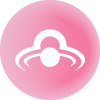
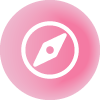
添加首页导航1.3.4跳转链接

Changed region(s): [[0.15, 0.21, 0.87, 0.81]]

diff --git a/HJC/View/HomePageButton/MainButtonCell.m b/HJC/View/HomePageButton/MainButtonCell.m
@@ -44,7 +44,7 @@
     if(!_preferentialBtn){
         UIButton *preferentialBtn = [UIButton buttonWithType:UIButtonTypeCustom];
         preferentialBtn.frame = CGRectMake(0, HeightXiShu(15), kScreenWidth/5, HeightXiShu(50));
-        [preferentialBtn setImage:[GetImagePath getImagePath:@"home_middle"] forState:UIControlStateNormal];
+        [preferentialBtn setImage:[GetImagePath getImagePath:@"home_sales"] forState:UIControlStateNormal];
         preferentialBtn.tag = 0;
         [preferentialBtn addTarget:self action:@selector(buttonAction:) forControlEvents:UIControlEventTouchUpInside];
         [self.bgView addSubview:preferentialBtn];
@@ -95,7 +95,7 @@
     if(!_integralBtn){
         UIButton *integralBtn = [UIButton buttonWithType:UIButtonTypeCustom];
         integralBtn.frame = CGRectMake(self.worldBtn.maxX, HeightXiShu(15), kScreenWidth/5, HeightXiShu(50));
-        [integralBtn setImage:[GetImagePath getImagePath:@"home_care"] forState:UIControlStateNormal];
+        [integralBtn setImage:[GetImagePath getImagePath:@"home_integral"] forState:UIControlStateNormal];
         integralBtn.tag = 2;
         [integralBtn addTarget:self action:@selector(buttonAction:) forControlEvents:UIControlEventTouchUpInside];
         [self.bgView addSubview:integralBtn];
@@ -120,7 +120,7 @@
     if(!_pharmacyBtn){
         UIButton *pharmacyBtn = [UIButton buttonWithType:UIButtonTypeCustom];
         pharmacyBtn.frame = CGRectMake(self.integralBtn.maxX, HeightXiShu(15), kScreenWidth/5, HeightXiShu(50));
-        [pharmacyBtn setImage:[GetImagePath getImagePath:@"home_integral"] forState:UIControlStateNormal];
+        [pharmacyBtn setImage:[GetImagePath getImagePath:@"home_middle"] forState:UIControlStateNormal];
         pharmacyBtn.tag = 3;
         [pharmacyBtn addTarget:self action:@selector(buttonAction:) forControlEvents:UIControlEventTouchUpInside];
         [self.bgView addSubview:pharmacyBtn];
@@ -145,7 +145,7 @@
     if(!_informationBtn){
         UIButton *informationBtn = [UIButton buttonWithType:UIButtonTypeCustom];
         informationBtn.frame = CGRectMake(self.pharmacyBtn.maxX, HeightXiShu(15), kScreenWidth/5, HeightXiShu(50));
-        [informationBtn setImage:[GetImagePath getImagePath:@"home_sales"] forState:UIControlStateNormal];
+        [informationBtn setImage:[GetImagePath getImagePath:@"home_care"] forState:UIControlStateNormal];
         informationBtn.tag = 4;
         [informationBtn addTarget:self action:@selector(buttonAction:) forControlEvents:UIControlEventTouchUpInside];
         [self.bgView addSubview:informationBtn];

diff --git a/HJC/Controller/ProcurementController/ProcurementNoTabViewController.m b/HJC/Controller/ProcurementController/ProcurementNoTabViewController.m
@@ -20,7 +20,7 @@
 @property (nonatomic, retain)NSMutableArray *dataArray;
 @property (nonatomic, assign)NSInteger pageIndex;
 @property (nonatomic, retain)UIView *noDateView;
-
+@property (nonatomic, strong)NSString *getUrl;
 @end
 
 @implementation ProcurementNoTabViewController
@@ -85,13 +85,20 @@
         navView.backgroundColor = [UIColor whiteColor];
         switch (self.classType) {
             case 1:
-                navView.titleLabel.text = @"化学药";
+                navView.titleLabel.text = @"诊特惠";
+                self.getUrl = GetNavTZh;
                 break;
             case 2:
-                navView.titleLabel.text = @"中成药";
+                navView.titleLabel.text = @"药世界";
+                self.getUrl = @"";
                 break;
             case 3:
-                navView.titleLabel.text = @"抗生素剂";
+                navView.titleLabel.text = @"换积分";
+                self.getUrl = GetNavJifen;
+                break;
+            case 4:
+                navView.titleLabel.text = @"云药房";
+                self.getUrl = GetNavYunYaoku;
                 break;
             default:
                 break;
@@ -171,11 +178,10 @@
     if (_pageIndex == 1) {
         pargrams = [NSMutableDictionary dictionary];
     }
-    [pargrams setObject:[NSString stringWithFormat:@",10,%ld",self.pageIndex] forKey:@"WebPara"];
-    [pargrams setObject:[NSString stringWithFormat:@"%ld,%@,%@",(long)self.classType,@"0",@""] forKey:@"Parastr"];// 分类DataID,供应商id,药品名称 [药品名称，不要传促销，促销会单独跳转。而不是放到参数里面请求]
     [pargrams setObject:[AnimaDefaultUtil getUserID] forKey:@"UserID"];//暂时设置为0因为只有0才有结果
-    NSLog(@"这是采购页面pargrams :%@", pargrams);
-    [BaseApi getMenthodWithUrl:GetGoodsListURL block:^(NSDictionary *dict, NSError *error) {
+    [pargrams setObject:[NSString stringWithFormat:@",10,%ld",self.pageIndex] forKey:@"WebPara"];
+    [pargrams setObject:[NSString stringWithFormat:@"0,%@,%@,",@"0",@""] forKey:@"Parastr"];// 分类DataID,供应商id,药品名称,产地 [因为URL不同，所以此页面不需要传分类ID，药品名称，产地]
+    [BaseApi getMenthodWithUrl:self.getUrl block:^(NSDictionary *dict, NSError *error) {
         [_tableView.mj_footer endRefreshing];
         if(!error){
             NSLog(@"请求成功了~~~~~~~~");

diff --git a/HJC/Controller/HomePage/MainViewController.m b/HJC/Controller/HomePage/MainViewController.m
@@ -85,6 +85,7 @@
     self.textField.delegate = self;
     self.textField.font = HEITI(HeightXiShu(13));
     self.textField.placeholder = @"泮立苏";
+    self.textField.returnKeyType = UIReturnKeySearch;
     [_searchView addSubview:self.textField];
     
 }
@@ -311,7 +312,10 @@
             break;
         case 2:
         {
-            NSLog(@"换积分");
+            NSLog(@"换积分"); //跳转到积分页面
+//            IntegralDetailViewController *idv = [[IntegralDetailViewController alloc] init];
+//            idv.hidesBottomBarWhenPushed = YES;
+//            [self.navigationController pushViewController:idv animated:YES];
             ProcurementNoTabViewController *pnt = [[ProcurementNoTabViewController alloc]init];
             pnt.classType = 3;
             pnt.hidesBottomBarWhenPushed = YES;
@@ -320,10 +324,11 @@
             break;
         case 3:
         {
-            NSLog(@"云药房"); //跳转到积分页面
-            IntegralDetailViewController *idv = [[IntegralDetailViewController alloc] init];
-            idv.hidesBottomBarWhenPushed = YES;
-            [self.navigationController pushViewController:idv animated:YES];
+            NSLog(@"y云药房");
+            ProcurementNoTabViewController *pnt = [[ProcurementNoTabViewController alloc]init];
+            pnt.classType = 4;
+            pnt.hidesBottomBarWhenPushed = YES;
+            [self.navigationController pushViewController:pnt animated:YES];
         }
             break;
         case 4:

diff --git a/HJC/Controller/AdPageController/AdPageControl.m b/HJC/Controller/AdPageController/AdPageControl.m
@@ -27,12 +27,13 @@
 -(UIImageView*)adPage{
     if (!_adPage) {
         _adPage = [[UIImageView alloc] initWithFrame:self.bounds];
-        _adPage.image = [UIImage imageNamed:@"syspic.jpg"];
-        if (iPhoneX) {
+        _adPage.image = [UIImage imageNamed:@"adPage"];
+       /* if (iPhoneX) {
             [_adPage sd_setImageWithURL:[NSURL URLWithString:@"https://timgsa.baidu.com/timg?image&quality=80&size=b9999_10000&sec=1523261379975&di=de03a2f9b86a050a3033f93a019800f5&imgtype=0&src=http%3A%2F%2Ffile.mumayi.com%2Fforum%2F201408%2F21%2F140851pvg3vgqr6rqr3q54.jpg"] placeholderImage:[UIImage imageNamed:@"iphonex"]];
         }else{
             [_adPage sd_setImageWithURL:[NSURL URLWithString:@"https://timgsa.baidu.com/timg?image&quality=80&size=b9999_10000&sec=1523855891&di=3ff3ae49d9a10ebbd8c582998927b6da&imgtype=jpg&er=1&src=http%3A%2F%2Fimgfs.oppo.cn%2Fuploads%2Fthread%2Fattachment%2F2017%2F01%2F03%2F14833739994785.png"] placeholderImage:[UIImage imageNamed:@"iphone6p"]];
         }
+        */
     }
     return _adPage;
 }

diff --git a/HJC/APIManger/Header.h b/HJC/APIManger/Header.h
@@ -10,7 +10,8 @@
 #define Header_h
 
 //host path
-#define HostPath @"http://122.224.237.123:8083/WebApi/api"
+//#define HostPath @"http://122.224.237.123:8083/WebApi/api"
+#define HostPath @"http://123.56.30.182/WebApi/api"
 //#define HostPath @"https://weiyaonet.com/WebApi/api"
 //注册
 #define RegisterURL @"/NewPerson"
@@ -65,6 +66,13 @@
 #define GetMessageInfo @"/QN_MESSAGE_FORPERSON"
 //处理消息 ?UserID=&MESSAGEID=& OPCODE=标志（1修改阅读标志2删除消息）
 #define GetDealMessage @"/BTN_MESSAGE_ISREAD"
+
+//诊特惠
+#define GetNavTZh @"/QN_GOODS_LIST_FORORDER_STD_PC_ZS"
+//赚积分
+#define GetNavJifen @"/QN_GOODS_LIST_FORORDER_STD_PC_OTC"
+//云药库
+#define GetNavYunYaoku @"/QN_GOODS_LIST_FORORDER_STD_PC_OTC"
 
 //图片前缀 banner
 #define HomePic @"https://weiyaonet.com/WebApi/IndexPic/"

diff --git a/HJC/View/SubmitOrdersCell/SubmitOrdersCell.m b/HJC/View/SubmitOrdersCell/SubmitOrdersCell.m
@@ -50,7 +50,7 @@
 }
 #pragma mark - model
 -(void)setModel:(ShoppingCartModel *)model{
-//    [_goodsPic sd_setImageWithURL:[NSURL URLWithString:_model.sortid] placeholderImage:[UIImage imageNamed:@""]];
+    [_goodsPic sd_setImageWithURL:[NSURL URLWithString:[[NSString stringWithFormat:@"%@%@",SmallPic,model.goodspic] stringByAddingPercentEscapesUsingEncoding:NSUTF8StringEncoding]] placeholderImage:[UIImage imageNamed:@"nodata.jpg"]];
     _goodsNameLable.text = model.goodsname;
     _goodsSpecLable.text = [NSString stringWithFormat:@"规格:%@",model.spec];
     _goodsProcerLable.text = [NSString stringWithFormat:@"产地:%@",model.prodarea];

diff --git a/HJC/Controller/HomePage/MedicineDetail/MedicineDetailViewController.m b/HJC/Controller/HomePage/MedicineDetail/MedicineDetailViewController.m
@@ -79,7 +79,7 @@
     self.tableView.tableHeaderView = self.headerView;
     self.tableView.backgroundColor = [UIColor whiteColor];
     [self.view addSubview:self.footerView];
-    [_goodImageView sd_setImageWithURL:[NSURL URLWithString:[NSString stringWithFormat:@"%@%@",BigPic,_model.GOODSPIC]] placeholderImage:[UIImage imageNamed:@"default"]];
+    [_goodImageView sd_setImageWithURL:[NSURL URLWithString:[[NSString stringWithFormat:@"%@%@",BigPic,_model.GOODSPIC] stringByAddingPercentEscapesUsingEncoding:NSUTF8StringEncoding]] placeholderImage:[UIImage imageNamed:@"default"]];
     [self.tableView reloadData];
 }
 
